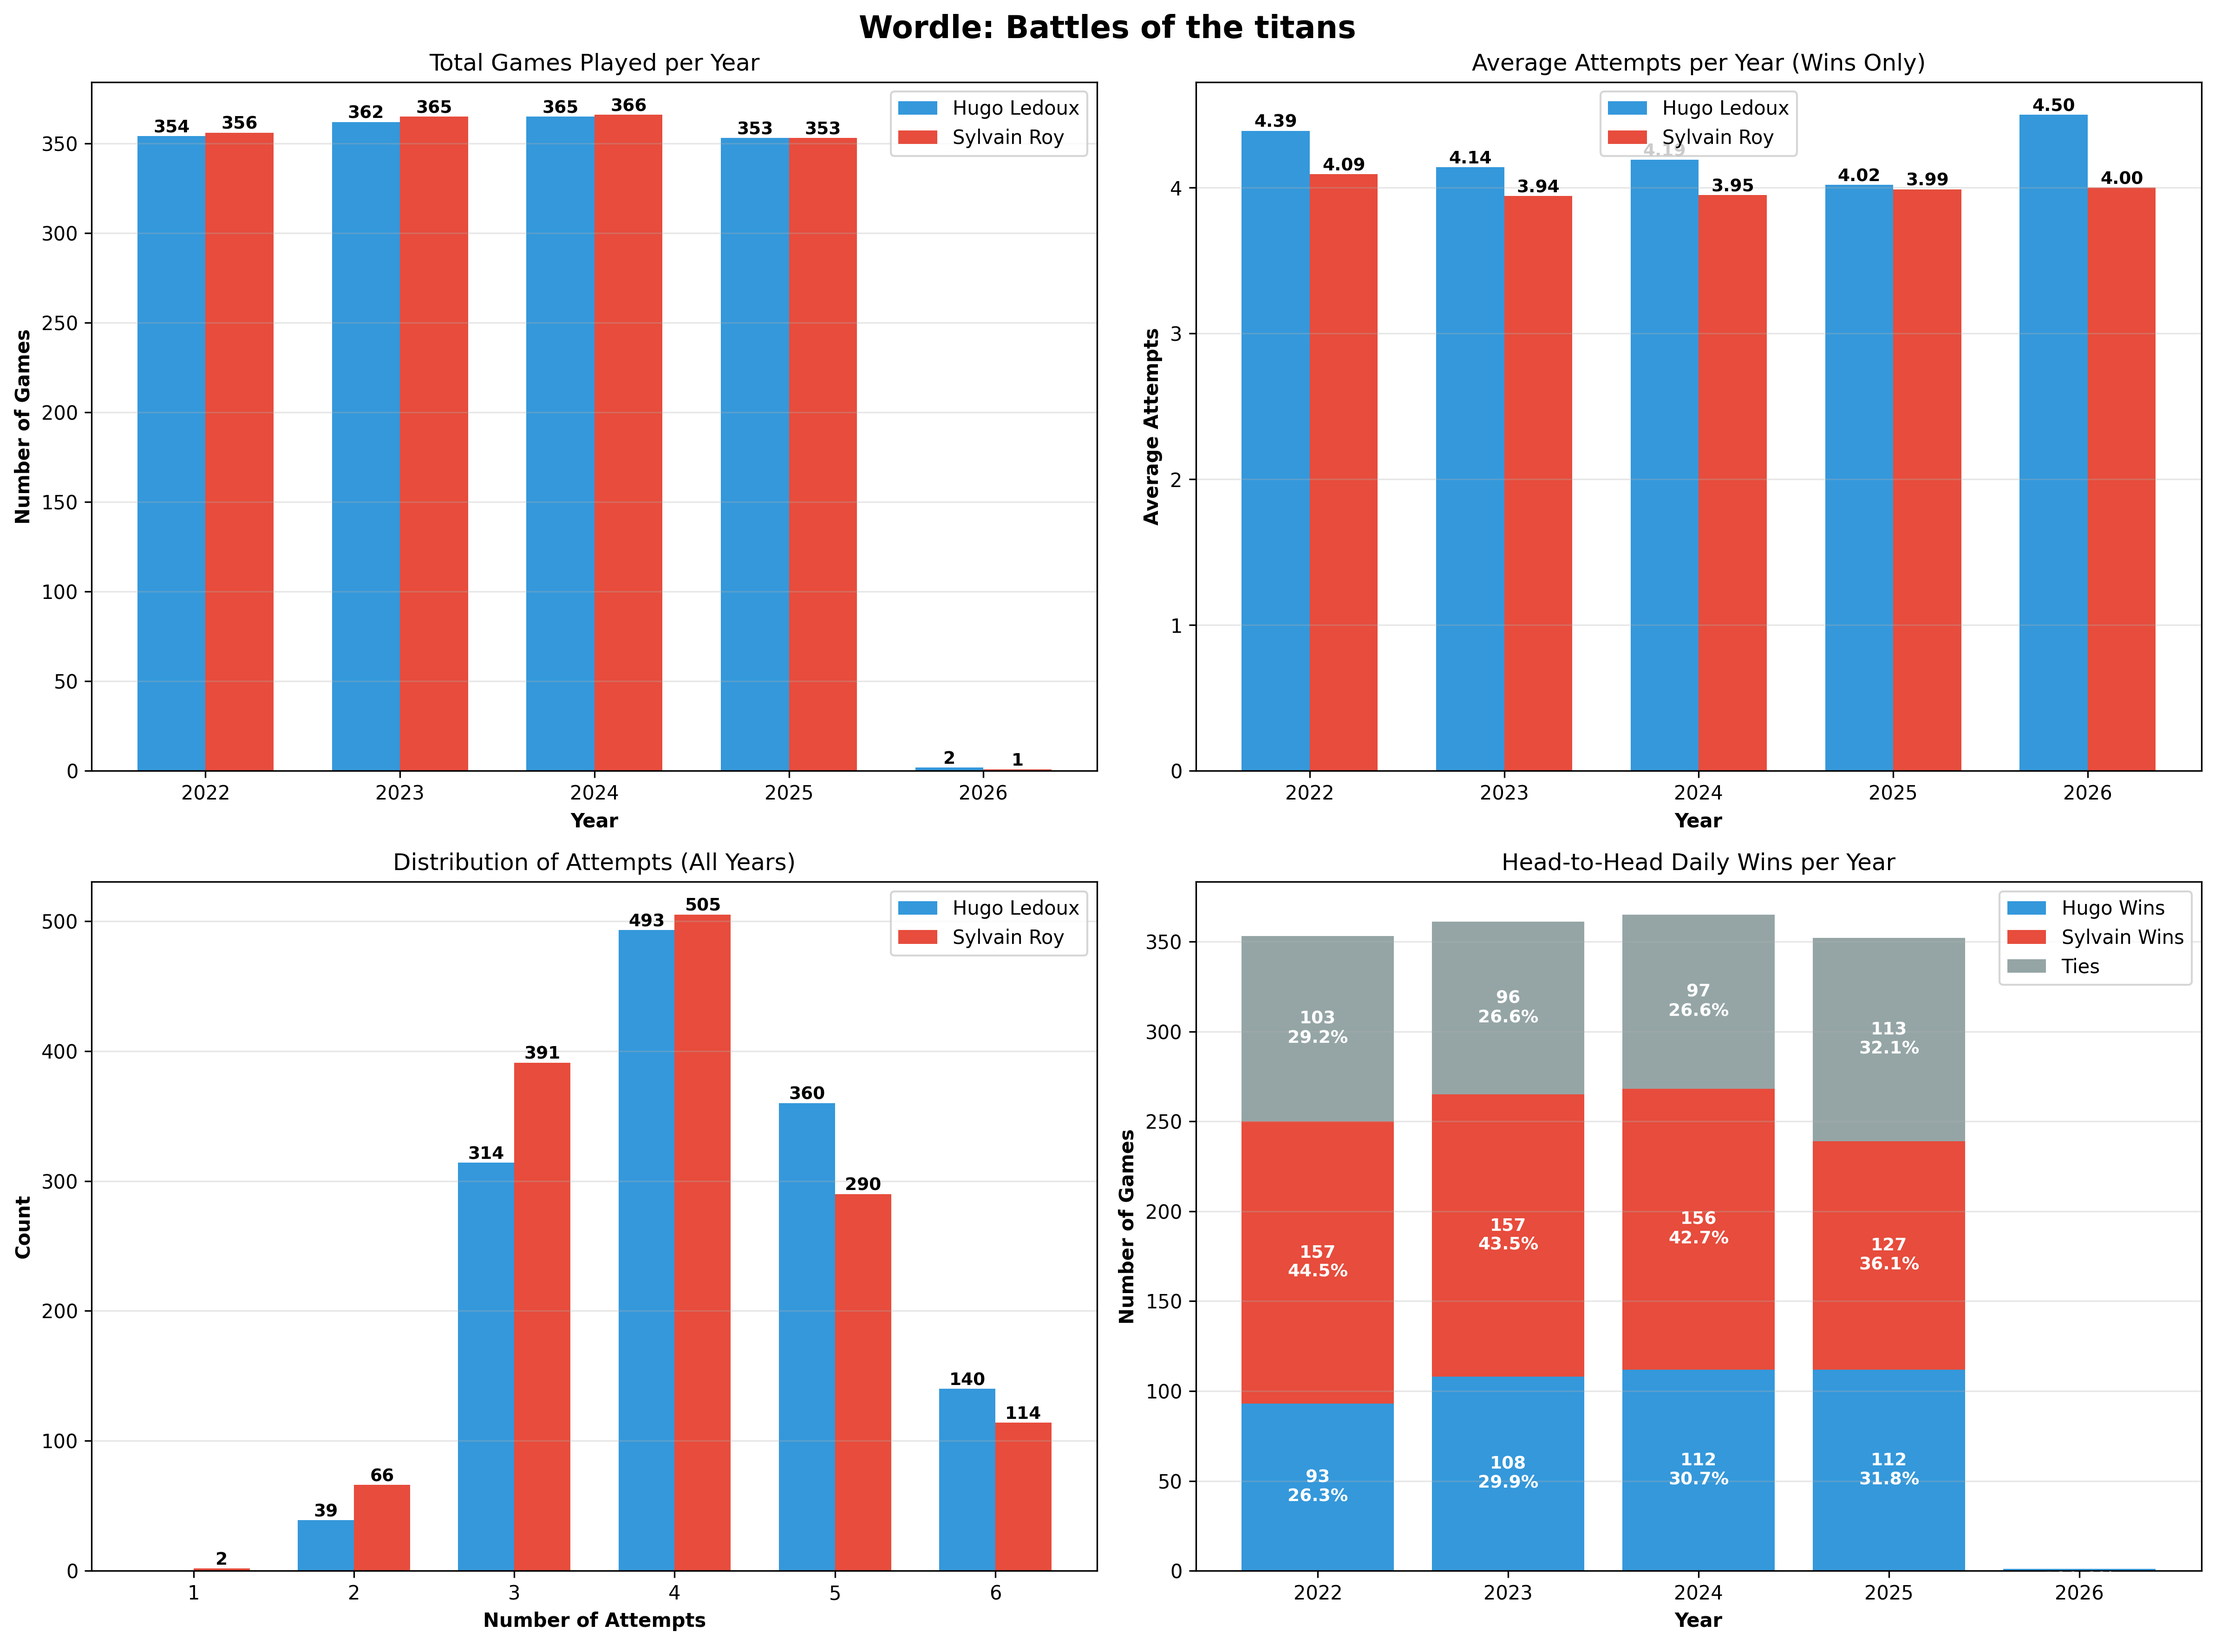
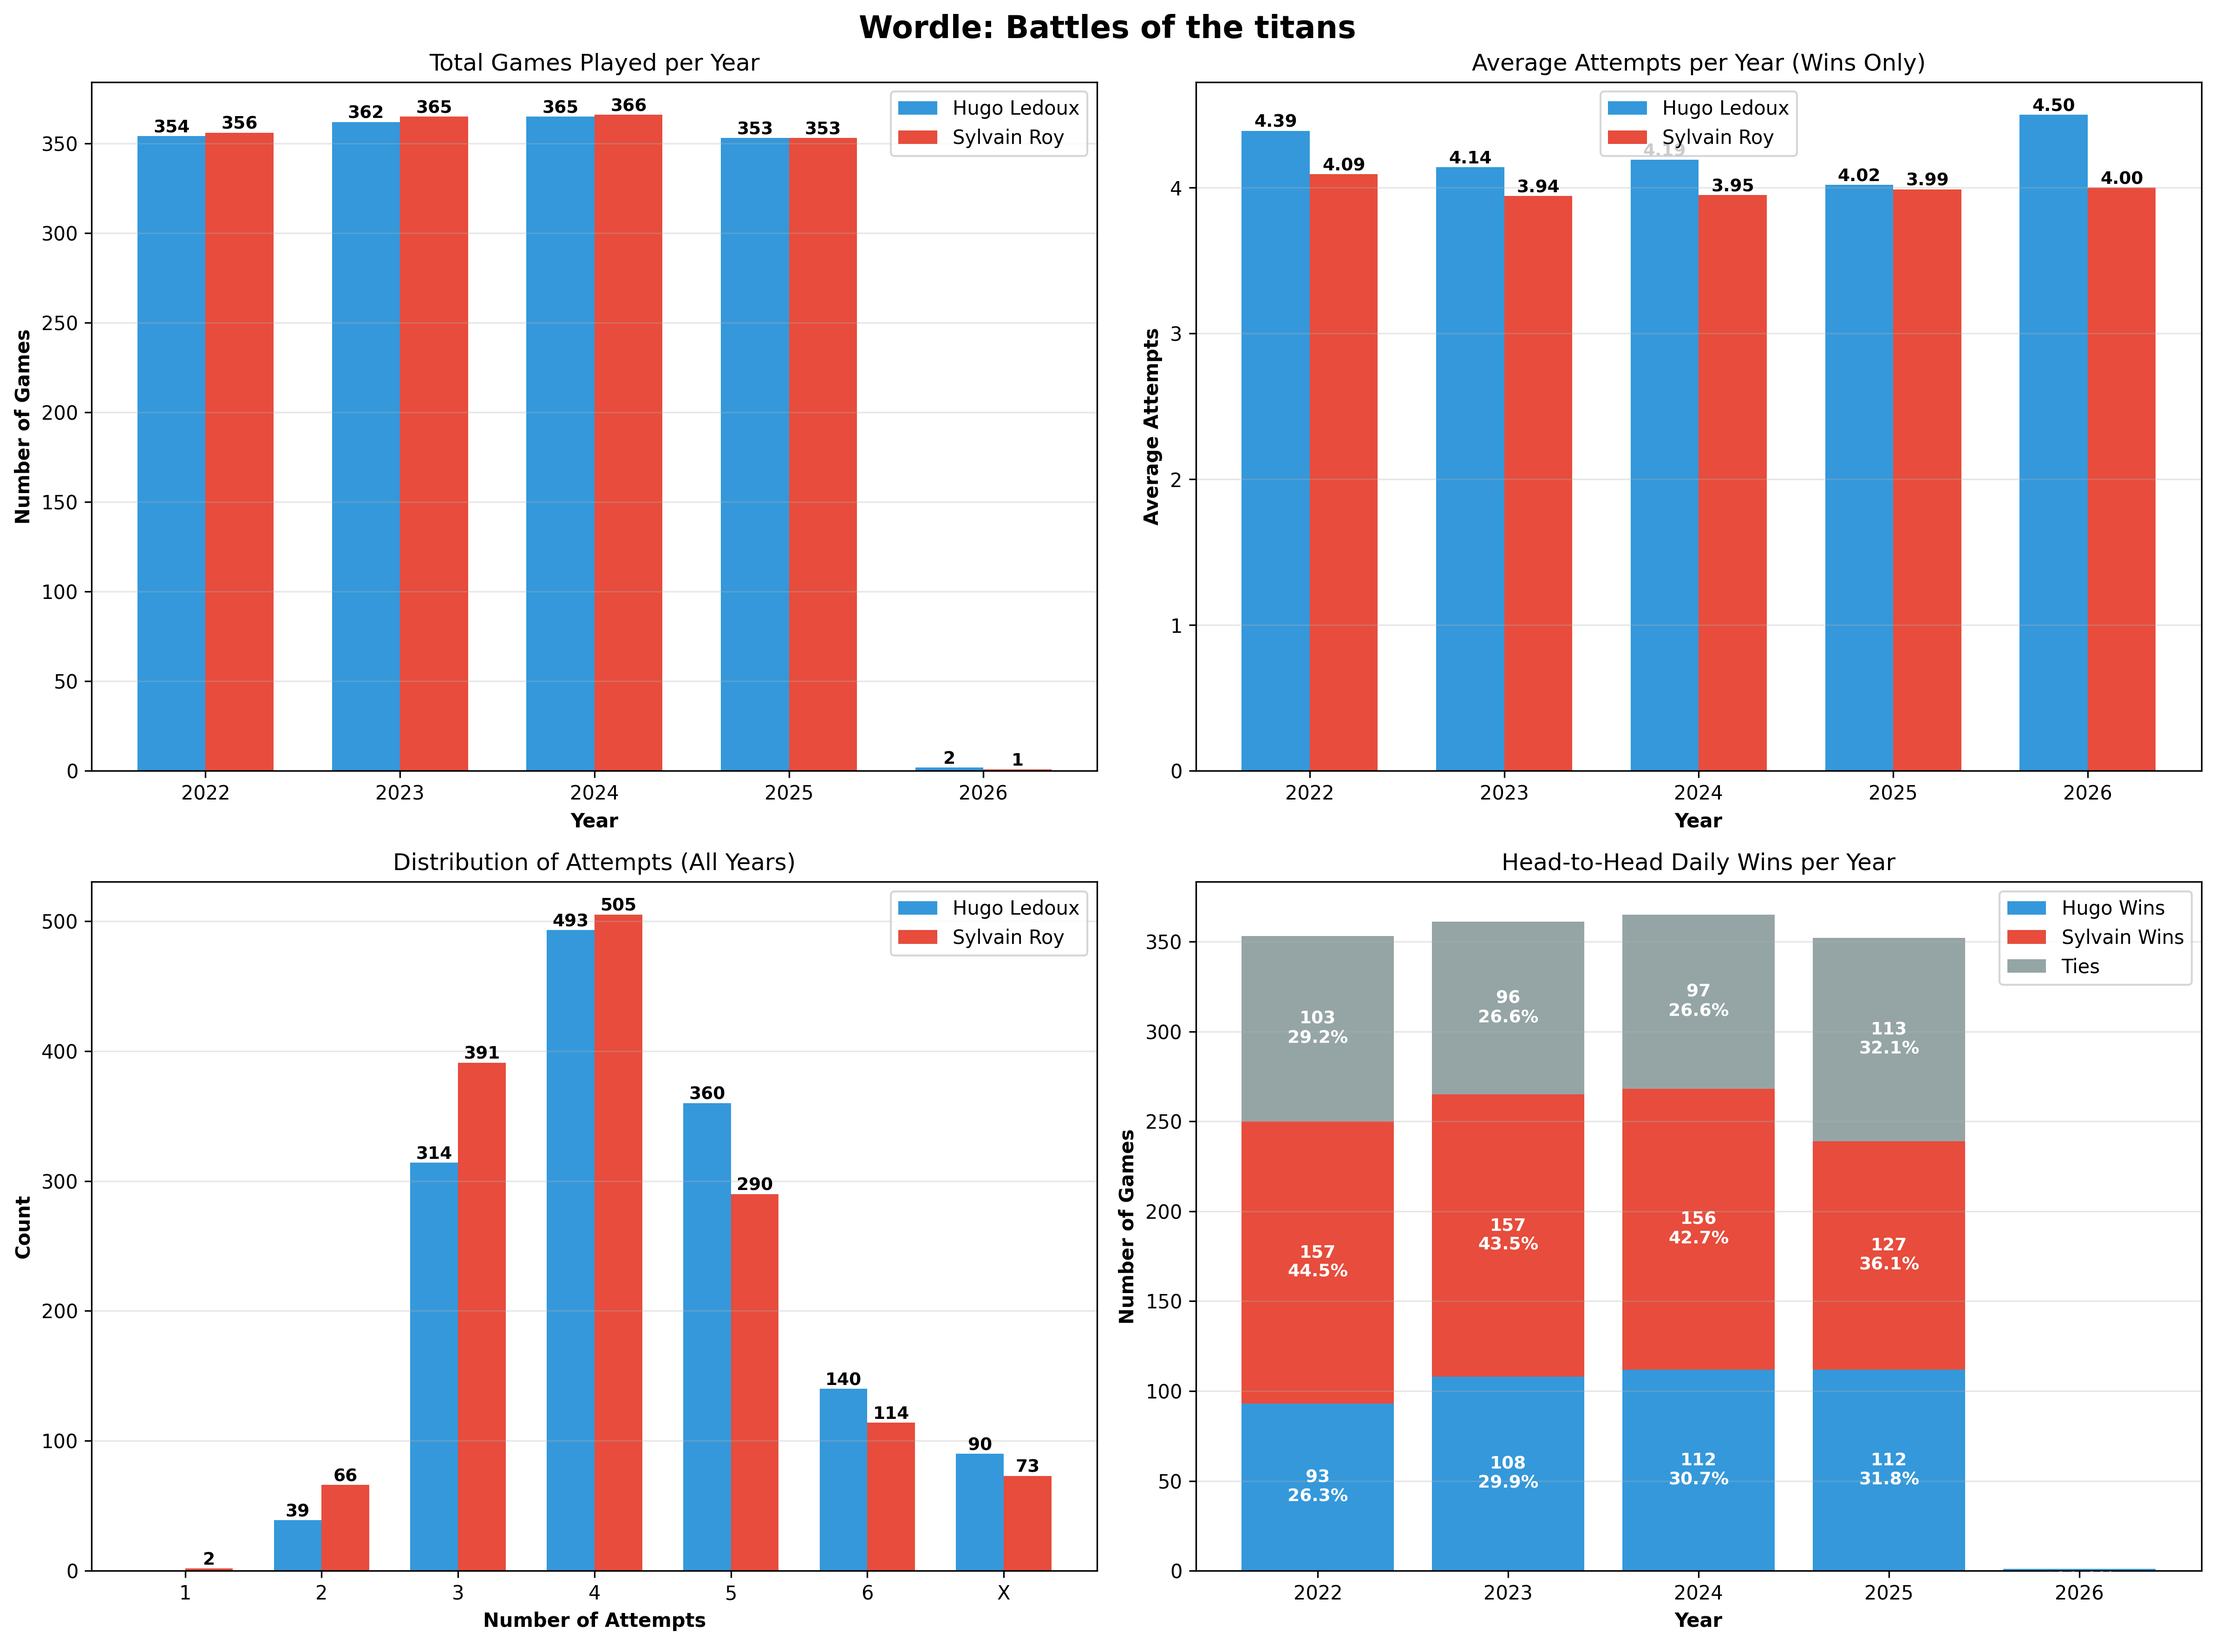
Add X/6

Changed region(s): [[0.125, 0.5278, 0.4999, 0.9625]]

diff --git a/wordle_stats.py b/wordle_stats.py
@@ -250,16 +250,18 @@ def plot_statistics(stats, h2h_stats):
     ax3 = axes[2]
     attempts_range = range(1, 7)
     width_dist = 0.35
-    x_dist = range(len(attempts_range))
+    x_dist = range(len(attempts_range) + 1)  # +1 for X/6
 
     for i, player in enumerate(players):
-        dist = [0] * 6
+        dist = [0] * 7  # 1-6 plus X
         for year in all_years:
             if year in stats[player]:
                 for attempt_num in attempts_range:
                     dist[attempt_num - 1] += stats[player][year]["attempts_dist"].get(
                         attempt_num, 0
                     )
+                # Add losses (X/6) as the 7th bar
+                dist[6] += stats[player][year]["losses"]
 
         offset = width_dist * (i - 0.5)
         bars = ax3.bar(
@@ -288,7 +290,7 @@ def plot_statistics(stats, h2h_stats):
     ax3.set_ylabel("Count", fontweight="bold")
     ax3.set_title("Distribution of Attempts (All Years)")
     ax3.set_xticks(x_dist)
-    ax3.set_xticklabels(attempts_range)
+    ax3.set_xticklabels([1, 2, 3, 4, 5, 6, "X"])
     ax3.legend()
     ax3.grid(axis="y", alpha=0.3)
 
